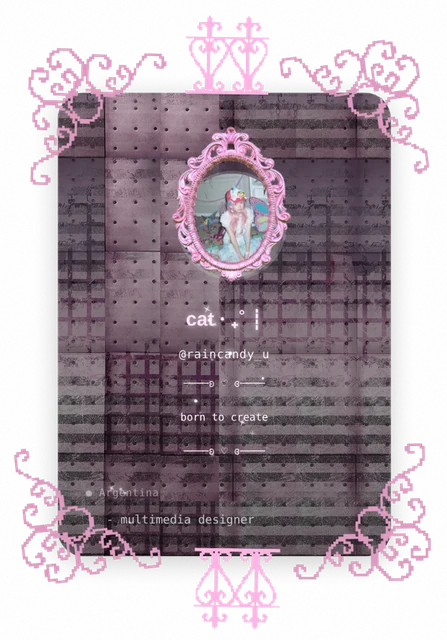
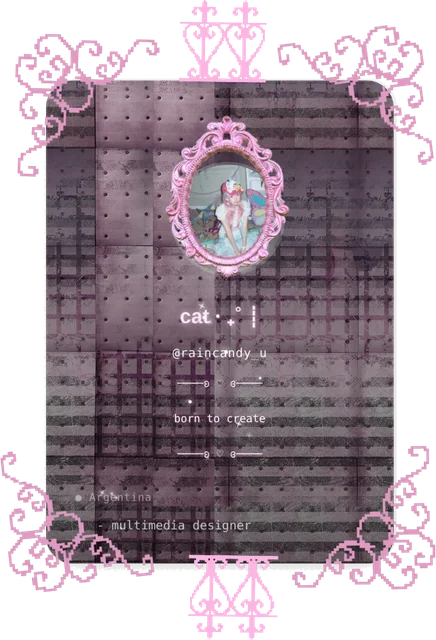
fix(landing): hero river without drakovin and without the faint box around real cards
The real-card cutouts carried a near-transparent veil (alpha ~6-12) over their whole bounding
box, left by the page background in the capture; with the river's drop-shadow it read as an
invisible square. Outside the card only the opaque parts (frames, stickers, images) remain now.

Claude-Session: https://claude.ai/code/session_015wBU4b2yVYq7YZwqV4qvqE

diff --git a/src/components/site/LandingPage.tsx b/src/components/site/LandingPage.tsx
@@ -16,7 +16,7 @@ class LandingPage extends React.Component<any, any> {
   FRAMES = ["linear-gradient(140deg,#FF4F94,#FFE14D)","linear-gradient(140deg,#5AC8FA,#D4FF3F)","linear-gradient(140deg,#FF7A2E,#FF4F94)","linear-gradient(140deg,#D4FF3F,#FFE14D)","linear-gradient(140deg,#FFE14D,#FF7A2E)","linear-gradient(140deg,#FF4F94,#5AC8FA)","linear-gradient(140deg,#141118,#3A3440)"];
   // Real ProfileCard formats (src/lib/cardGeometry.ts): vertical .55–.85, horizontal 1.3–2, square 1, phone 9:16, card .9–1.6
   // "r-*" = real cards from myLand profiles (as seen, with the images that touch them), webp.
-  RIVER = [["r-raincandy_u",.698,262],["r-gutted",1.945,172],["c1",1,206],["r-zaid",.808,262],["r-drakovin",1.553,190],["r-faexiu",.828,256],["c2",.5625,284],["r-sorceror",.967,226],["krystal",.709,262],["r-cloms",.906,236],["ithought",1.768,172],["c3",1.7,170]];
+  RIVER = [["r-raincandy_u",.681,262],["r-gutted",2.025,170],["c1",1,206],["r-zaid",.887,256],["r-faexiu",.778,262],["c2",.5625,284],["r-sorceror",1.006,226],["krystal",.709,262],["r-cloms",.836,246],["ithought",1.768,172],["c3",1.7,170]];
   GAL = [
     { m: "justme", user: "justme", r: 1.6, h: 46, base: "#F6F4FA", tint: "transparent", bar: "rgba(255,255,255,.6)", ink: "#5A5360", cr: .747, ch: "72%", op: 0, art: 1 },
     { m: "krystal", user: "krystalichny", r: 1.6, h: 52, base: "#d9dadf", tint: "linear-gradient(180deg,rgba(255,255,255,.45),rgba(255,255,255,.1))", bar: "rgba(255,255,255,.55)", ink: "#222", cr: .709, ch: "80%", op: .9 },

diff --git a/CLAUDE.md b/CLAUDE.md
@@ -576,8 +576,9 @@ planeado acá hasta confirmarlo.
 >
 > **Landing con cards reales (2026-11-16, pedido del usuario):** `LandingPage.tsx` ya NO es 1:1 con el `.dc.html`
 >   (correr `regen.sh` pisaría esto; re-aplicarlo a mano). Hero: 7 de las cards del río son cards reales de la comunidad
->   (`public/landing/hero/r-<handle>.webp`: raincandy_u, gutted, zaid, drakovin, faexiu, sorceror, cloms; capturadas de su
->   perfil publicado con las imágenes que tocan la card, sin el fondo). "Un solo link": el teléfono muestra el perfil de
+>   (`public/landing/hero/r-<handle>.webp`: raincandy_u, gutted, zaid, faexiu, sorceror, cloms — drakovin salió a pedido del
+>   usuario; capturadas de su perfil publicado con las imágenes que tocan la card, sin el fondo ni el velo semitransparente
+>   que dejaba la captura alrededor: fuera de la card solo queda lo opaco). "Un solo link": el teléfono muestra el perfil de
 >   `@gutted` (foto, `myland.lol/gutted`, grilla con recortes de su sala) y al tocar el link, su vista real de celular
 >   (`video/gutted-phone.mp4`). **Bug arreglado:** las líneas con animación de entrada (`data-rise` / `data-reveal`) se
 >   quedaban ocultas para siempre ("UN SOLO" sin "LINK.", y el link/texto de esa sección) porque `bind()` volvía a crear
